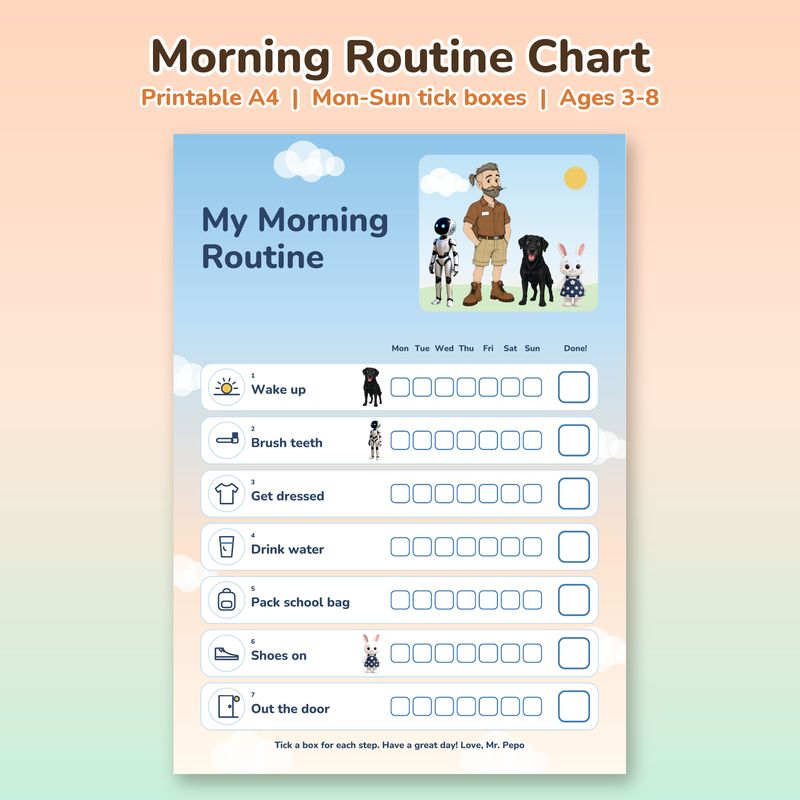
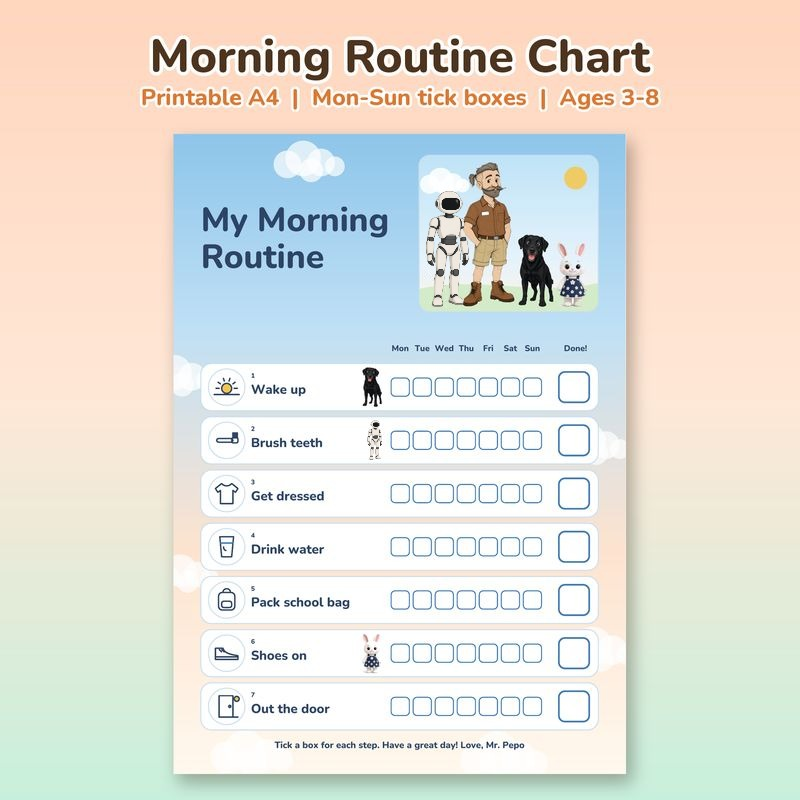
Swap in approved Luna on routine chart cards

Changed region(s): [[0.5312, 0.2188, 0.5938, 0.4062], [0.4375, 0.5312, 0.5, 0.5625]]

diff --git a/index.html b/index.html
@@ -1819,7 +1819,7 @@
             </div>
           </a>
           <a class="work-card" href="#printables">
-            <img src="images/cards/morning.jpg" alt="Morning routine chart printable" width="1200" height="1200" loading="lazy" decoding="async">
+            <img src="images/cards/morning.jpg?v=2" alt="Morning routine chart printable" width="1200" height="1200" loading="lazy" decoding="async">
             <div>
               <h3>Free printables</h3>
               <p>Charts, labels and the block model, free on this page.</p>
@@ -1954,14 +1954,14 @@
         <ul class="grid">
           <li>
             <a class="pcard" href="https://payhip.com/PepoStudios" target="_blank" rel="noopener noreferrer">
-              <span class="pcard-pic"><img loading="lazy" decoding="async" src="images/cards/morning.jpg" alt="Personalised Morning Routine Chart"></span>
+              <span class="pcard-pic"><img loading="lazy" decoding="async" src="images/cards/morning.jpg?v=2" alt="Personalised Morning Routine Chart"></span>
               <span class="badge">FREE</span>
               <span class="pname">Personalised Morning Routine Chart for Kids with Name or Photo, Mr. Pepo Printable A4</span>
             </a>
           </li>
           <li>
             <a class="pcard" href="https://payhip.com/PepoStudios" target="_blank" rel="noopener noreferrer">
-              <span class="pcard-pic"><img loading="lazy" decoding="async" src="images/cards/evening.jpg" alt="Evening Routine Chart"></span>
+              <span class="pcard-pic"><img loading="lazy" decoding="async" src="images/cards/evening.jpg?v=2" alt="Evening Routine Chart"></span>
               <span class="badge">FREE</span>
               <span class="pname">Evening Routine Chart</span>
             </a>
@@ -1975,7 +1975,7 @@
           </li>
           <li>
             <a class="pcard" href="https://payhip.com/PepoStudios" target="_blank" rel="noopener noreferrer">
-              <span class="pcard-pic"><img loading="lazy" decoding="async" src="images/cards/bundle.jpg" alt="Routine Chart Bundle"></span>
+              <span class="pcard-pic"><img loading="lazy" decoding="async" src="images/cards/bundle.jpg?v=2" alt="Routine Chart Bundle"></span>
               <span class="badge">FREE</span>
               <span class="pname">Routine Chart Bundle - Morning, Evening and After-School</span>
             </a>
